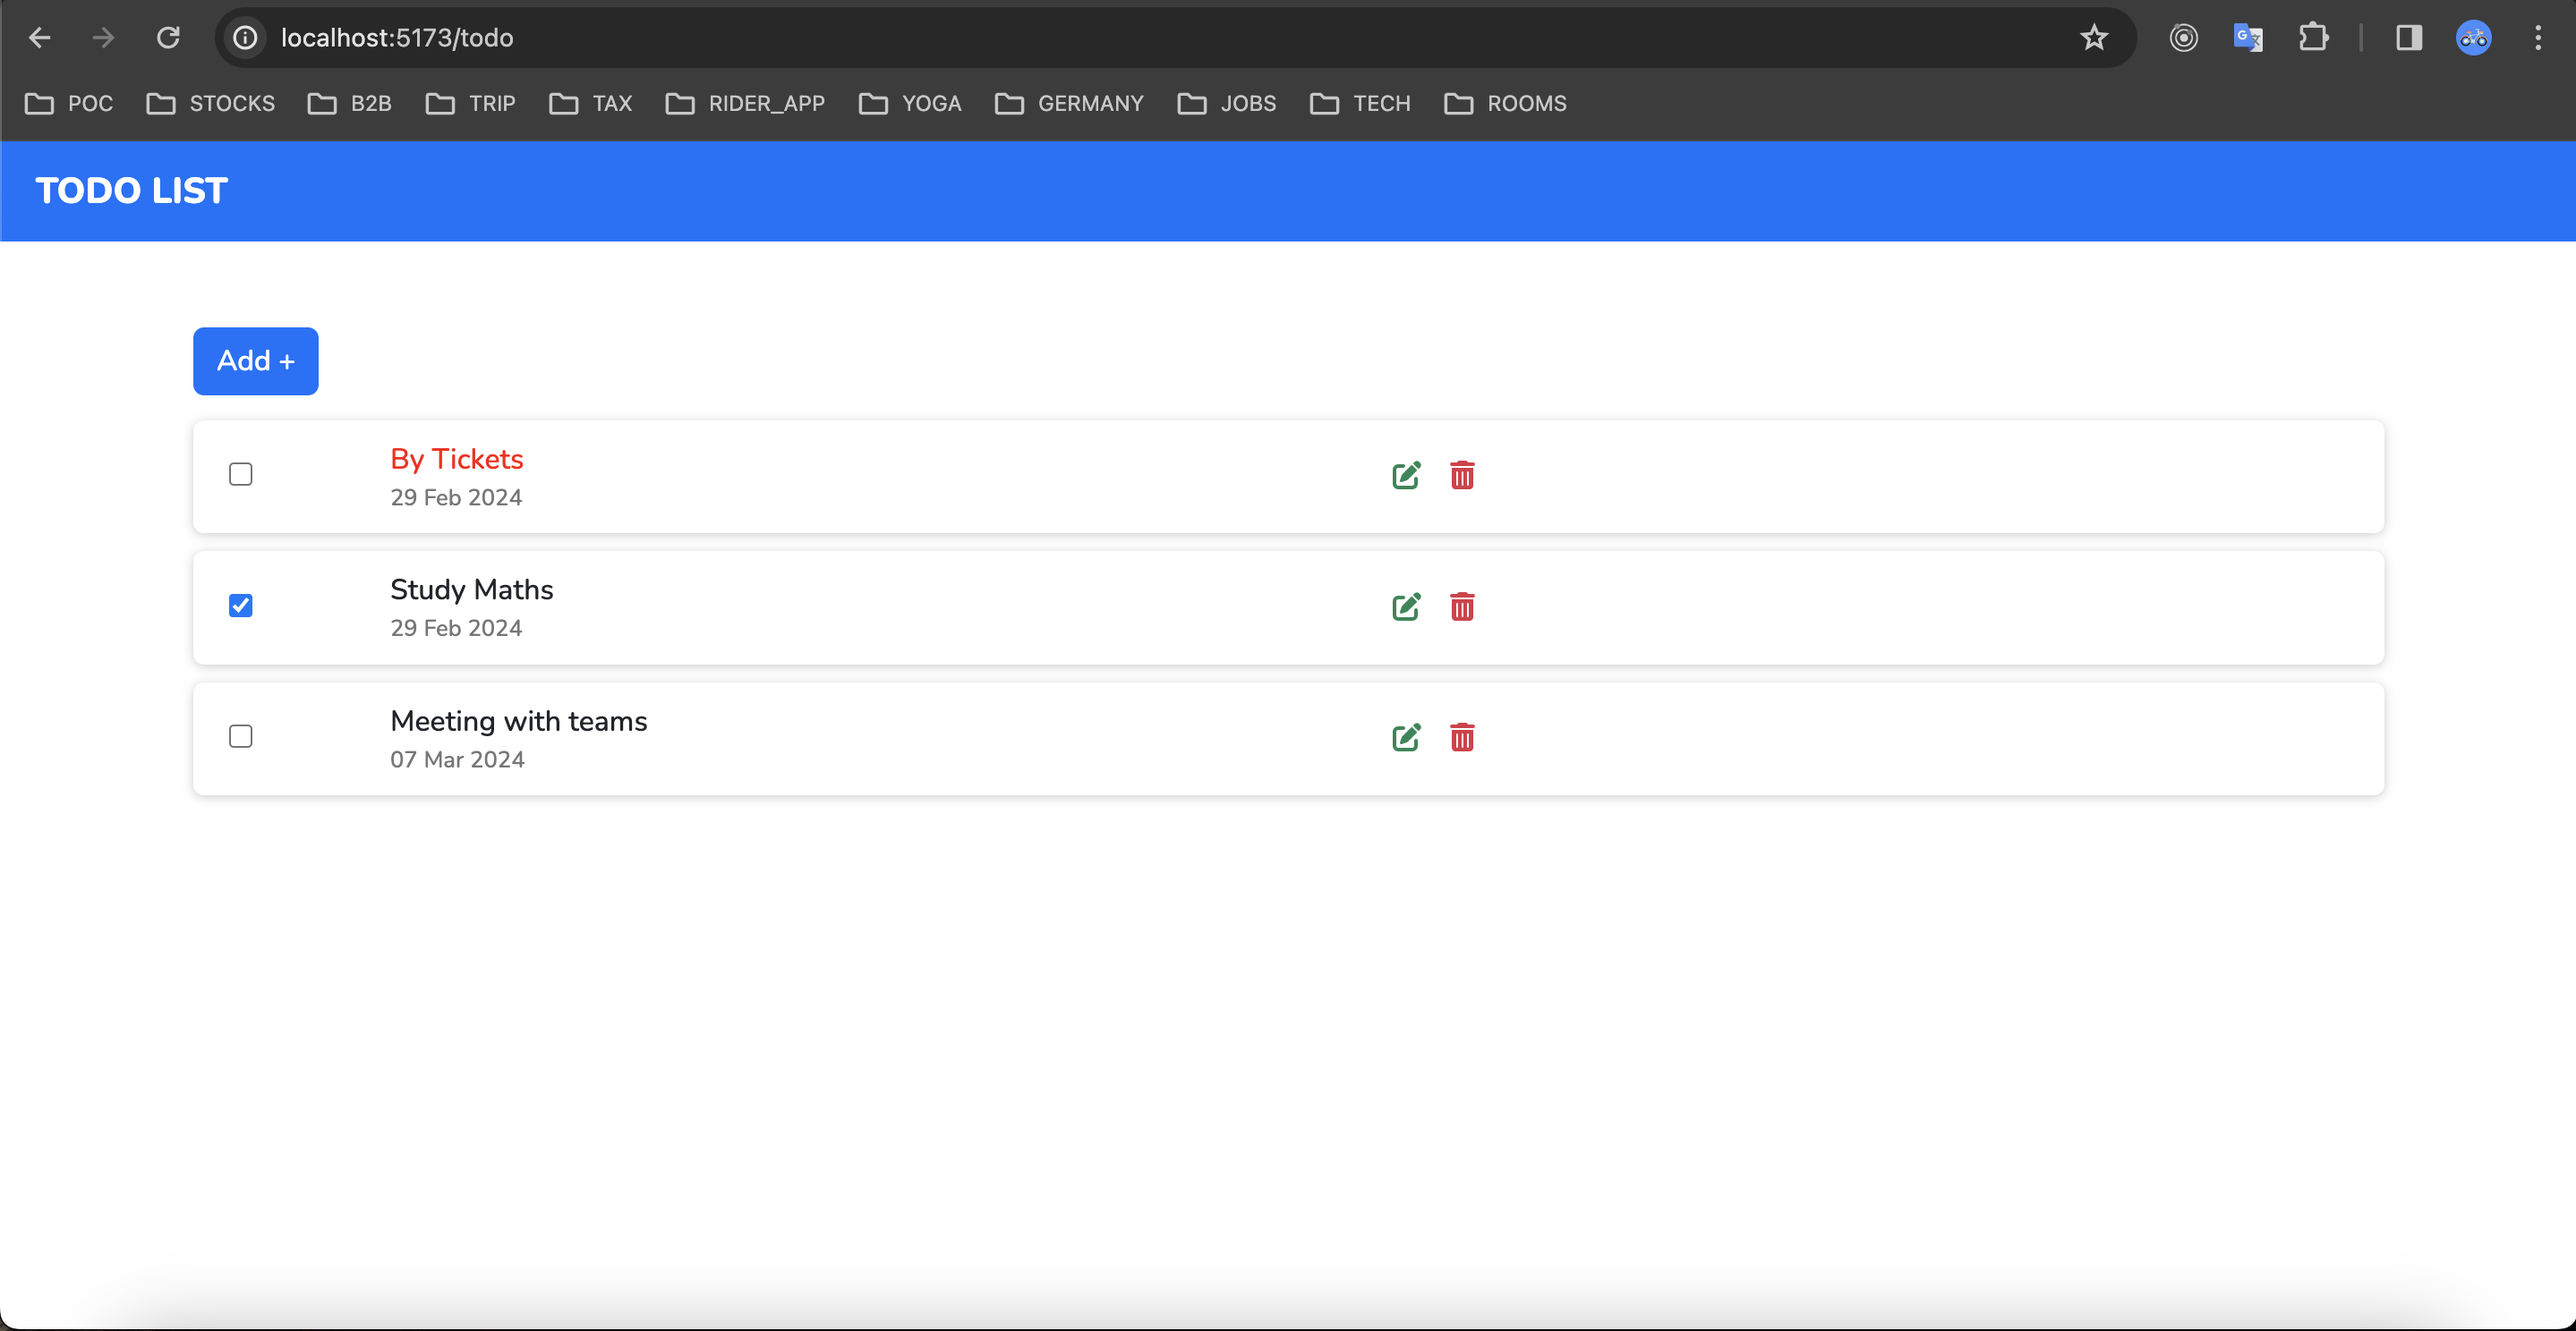
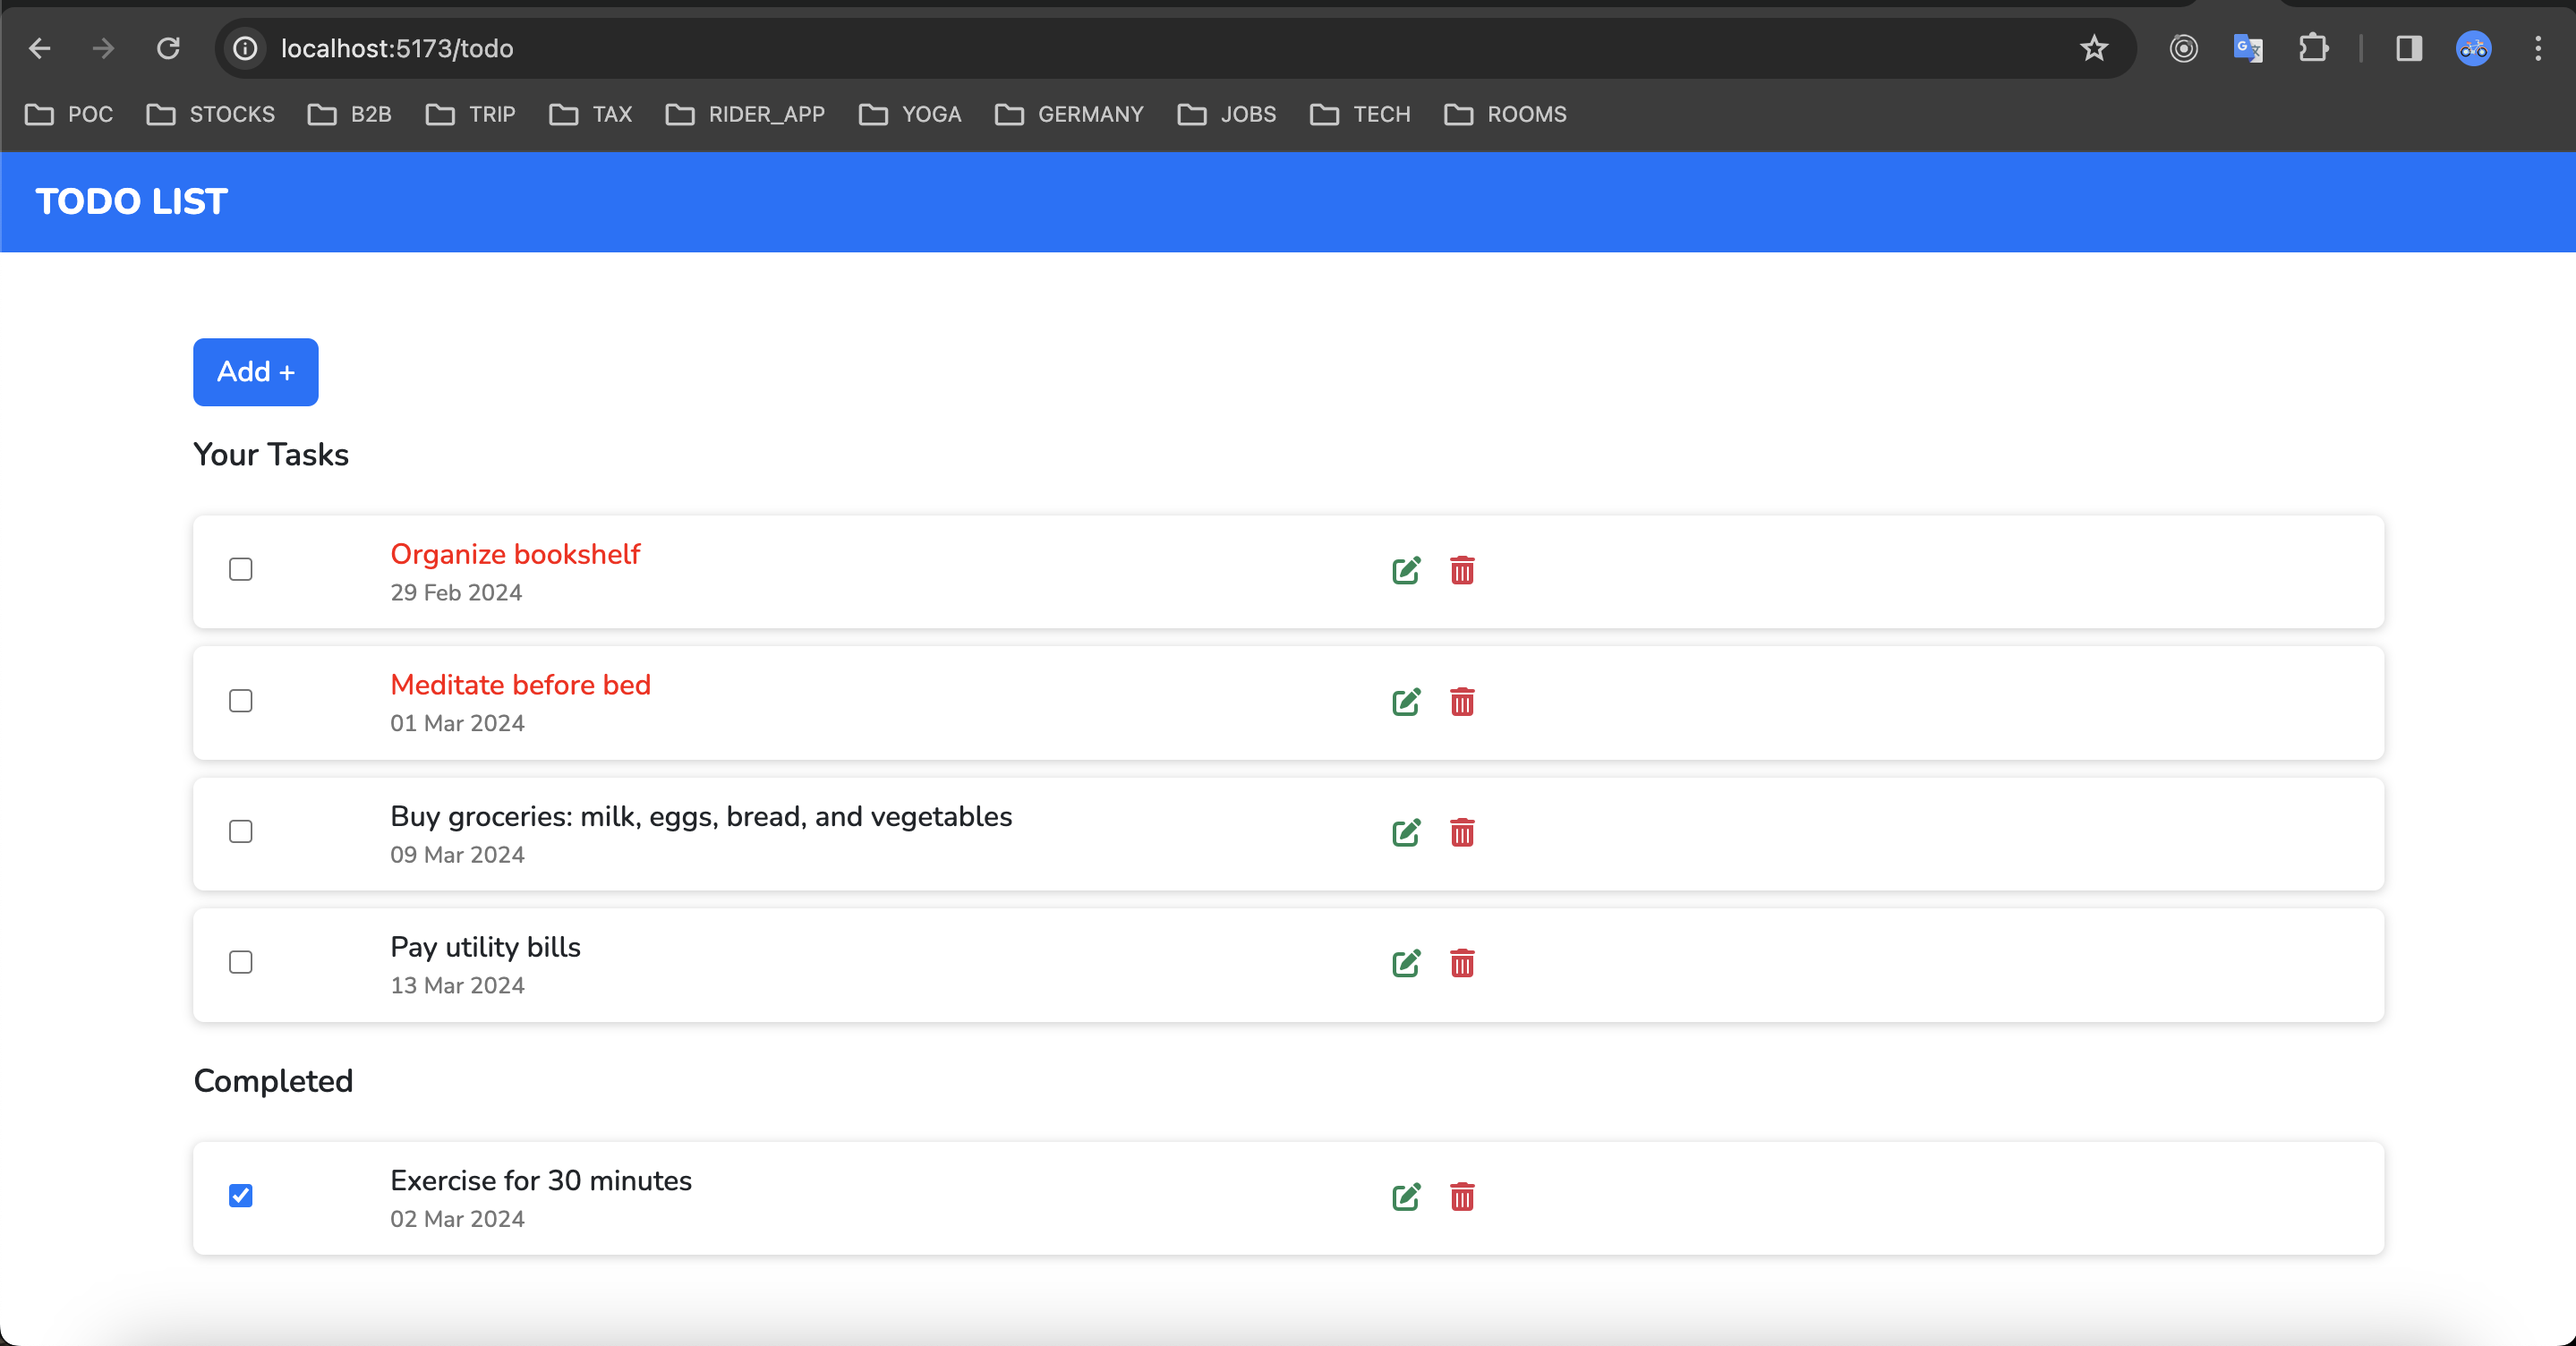
Feature: Separated tasks
- Separated Completed tasks

diff --git a/src/components/todo/List.tsx b/src/components/todo/List.tsx
@@ -10,6 +10,9 @@ function List() {
   const navigate = useNavigate();
   const [todos, setTodos] = useState<Todo[]>([]);
 
+  const pendingTasks = todos.filter((todo) => !todo.isDone);
+  const completedTasks = todos.filter((todo) => todo.isDone);
+
   useEffect(() => {
     (async () => {
       try {
@@ -45,70 +48,82 @@ function List() {
     }
   };
 
-  const renderTasks = () => (
-    <>
-      {todos.length === 0 ? (
-        <div className="d-flex flex-column align-items-center mb-3">
-          <img src={noItemsFoundImage} alt="No items found" className="imgNoData" />
-          <p className="text-muted">Whoops! No data found.</p>
-        </div>
-      ) : (
-        todos.map((todo) => (
-          <div key={todo.id} className="task-item">
-            <div className="col checkbox-column">
-              <input
-                type="checkbox"
-                checked={todo.isDone || false}
-                onChange={(e) => handleMarkAsDone(todo.id!, e.target.checked)}
-              />
-            </div>
-            <div className="col">
-              <span
-                className={
-                  new Date(todo.deadline!) < new Date(new Date().toISOString().slice(0, 10)) && !todo.isDone
-                    ? 'overdue'
-                    : ''
-                }
-              >
-                {todo.task}
-              </span>
-              <div className="col task-time">
-                {todo.deadline
-                  ? new Date(todo.deadline).toLocaleDateString('en-GB', {
-                      day: '2-digit',
-                      month: 'short',
-                      year: 'numeric',
-                    })
-                  : ''}
+  const renderTasks = (tasks: Todo[], doneStatus: boolean) => {
+    let heading = '';
+    if (tasks.length > 0) {
+      heading = doneStatus ? 'Completed' : 'Your Tasks';
+    }
+    return (
+      <>
+        <div className="text-head">{heading}</div>
+        <div className="tasks-list">
+          {tasks.map((todo) => (
+            <div key={todo.id} className="task-item">
+              <div className="col checkbox-column">
+                <input
+                  type="checkbox"
+                  checked={todo.isDone || false}
+                  onChange={(e) => handleMarkAsDone(todo.id!, e.target.checked)}
+                />
+              </div>
+              <div className="col">
+                <span
+                  className={
+                    new Date(todo.deadline!) < new Date(new Date().toISOString().slice(0, 10)) && !todo.isDone
+                      ? 'overdue'
+                      : ''
+                  }
+                >
+                  {todo.task}
+                </span>
+                <div className="col task-time">
+                  {todo.deadline
+                    ? new Date(todo.deadline).toLocaleDateString('en-GB', {
+                        day: '2-digit',
+                        month: 'short',
+                        year: 'numeric',
+                      })
+                    : ''}
+                </div>
+              </div>
+
+              <div className="col">
+                <i
+                  onClick={() => navigate(`/update`, { state: { todoData: todo } })}
+                  className="fas fa-edit mx-2 text-success cursorPointer"
+                  title="Edit"
+                  aria-label={`Edit ${todo.task}`}
+                ></i>
+                <i
+                  onClick={() => handleDelete(todo.id!)}
+                  className="fas fa-trash-alt mx-2 text-danger cursorPointer"
+                  title="Delete"
+                  aria-label={`Delete ${todo.task}`}
+                ></i>
               </div>
             </div>
-
-            <div className="col">
-              <i
-                onClick={() => navigate(`/update`, { state: { todoData: todo } })}
-                className="fas fa-edit mx-2 text-success cursorPointer"
-                title="Edit"
-                aria-label={`Edit ${todo.task}`}
-              ></i>
-              <i
-                onClick={() => handleDelete(todo.id!)}
-                className="fas fa-trash-alt mx-2 text-danger cursorPointer"
-                title="Delete"
-                aria-label={`Delete ${todo.task}`}
-              ></i>
-            </div>
-          </div>
-        ))
-      )}
-    </>
-  );
+          ))}
+        </div>
+      </>
+    );
+  };
 
   return (
     <div className="container mt-5 px-5">
       <Link to="/add" className="btn btn-primary mb-1">
         Add +
       </Link>
-      <div className="tasks-list">{renderTasks()}</div>
+      {todos.length === 0 ? (
+        <div className="d-flex flex-column align-items-center mb-3">
+          <img src={noItemsFoundImage} alt="No items found" className="imgNoData" />
+          <p className="text-muted">Whoops! No data found.</p>
+        </div>
+      ) : (
+        <>
+          {renderTasks(pendingTasks, false)}
+          {renderTasks(completedTasks, true)}
+        </>
+      )}
     </div>
   );
 }

diff --git a/src/components/todo/css/List.css b/src/components/todo/css/List.css
@@ -82,3 +82,10 @@
 .overdue {
     color: red;
 }
+
+.text-head {
+    padding-top: 10px;
+    padding-bottom: 10px;
+    font-size: large;
+    font-weight: 600;
+}
